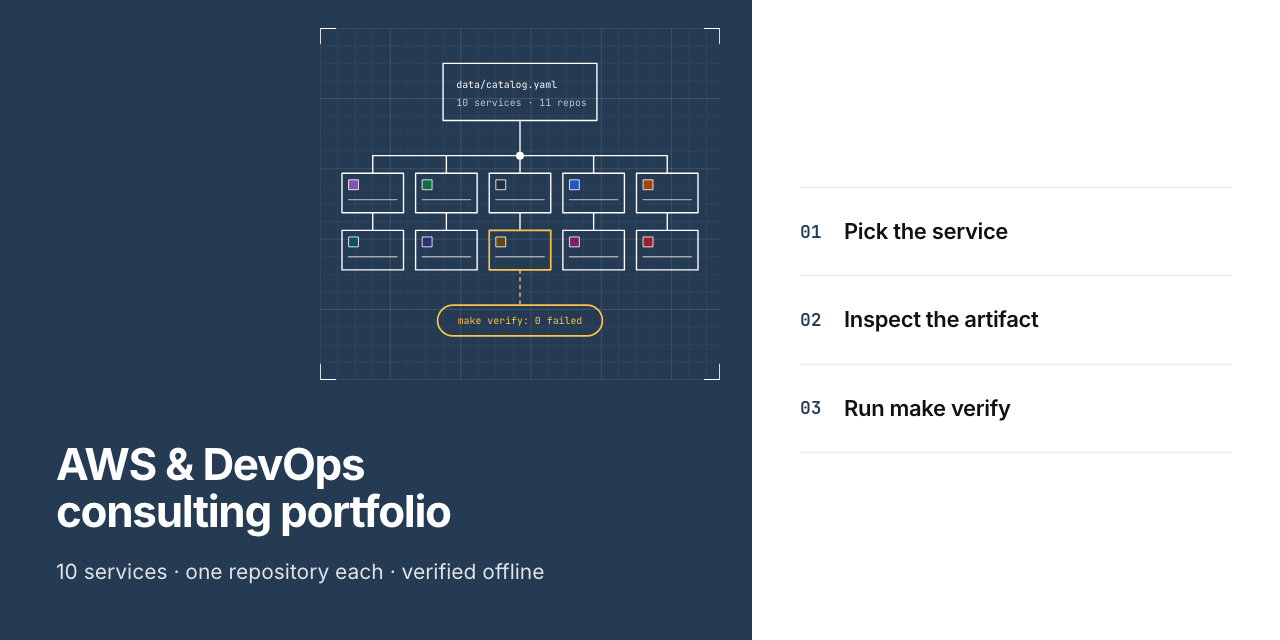
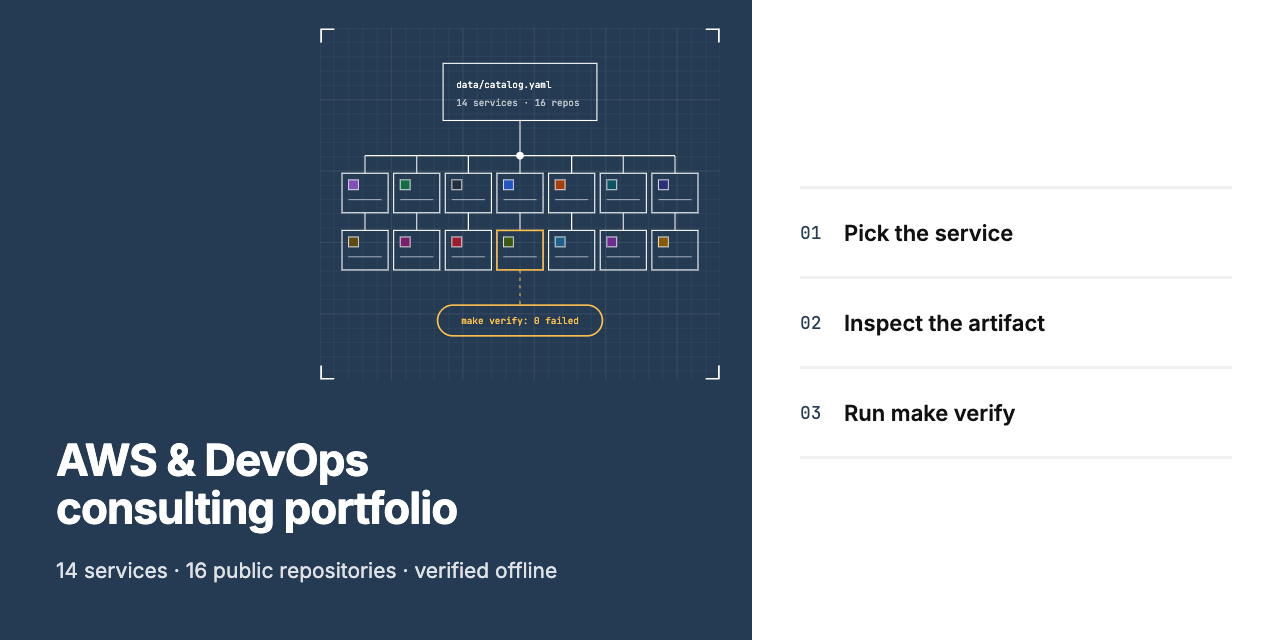
docs: update social preview and ADR to fourteen services and sixteen repositories

diff --git a/docs/adr/0001-generate-cards-from-catalog.md b/docs/adr/0001-generate-cards-from-catalog.md
@@ -6,7 +6,7 @@ Accepted
 
 ## Context
 
-The index describes ten services, each with an Upwork offer, a repository, an artifact and a verification scope.
+The index describes fourteen services, each with an Upwork offer, a repository, an artifact and a verification scope.
 The same facts also appear in each repository's GitHub description and topics. In a hand-written README, a
 renamed repository or offer means edits in two or three places, and nothing notices a missed one.
 
